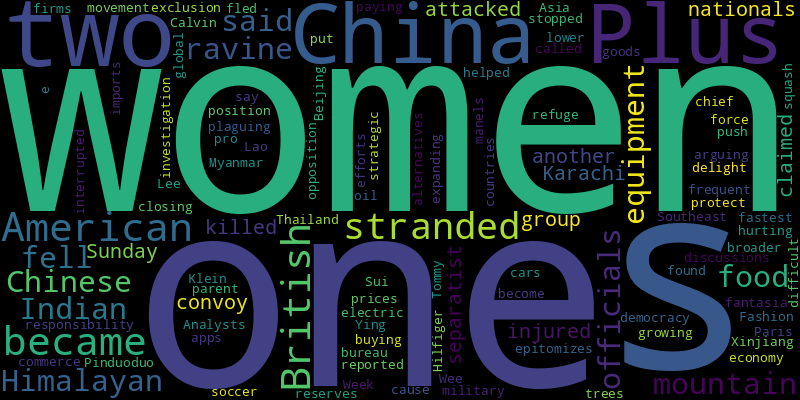
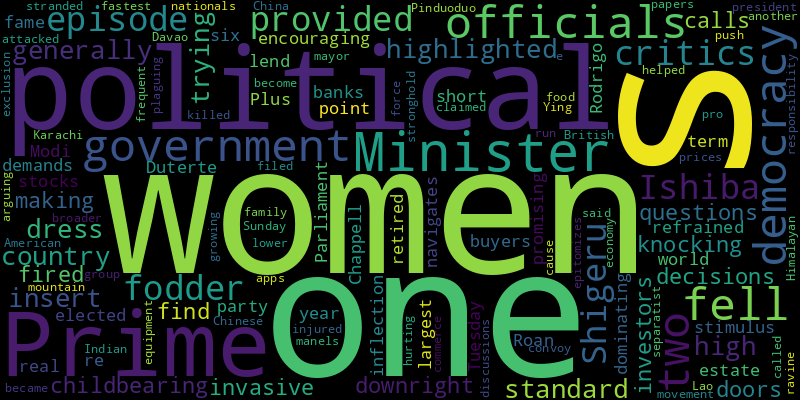
chore(bot): 👿 auto commit

diff --git a/README.md b/README.md
@@ -2,41 +2,41 @@
 Auto RSS New York Times and Generate Word Cloud
 
 ## New York Times Global News
-* Israelis are gathering to remember those killed and abducted last Oct. 7. For Palestinians in Gaza, there is no reprieve from a war that has killed tens of thousands.
-* Explosions were also heard in Tel Aviv as Hamas carried out new rocket attacks from Gaza.
-* The prize was awarded for their discovery of microRNA, which helps determine how cells develop and function.
+* Israel’s air attacks against Hezbollah continued, and it said parts of a fourth military division had begun operating against the militant group in southwestern Lebanon.
+* John J. Hopfield and Geoffrey E. Hinton have “showed a completely new way for us to use computers to aid and to guide us” in solving problems, the committee said.
+* The government is again trying to insert itself into women’s childbearing decisions, knocking on doors and making calls with questions some find downright invasive.
+* The Hamas-led attacks that day shattered Israelis’ faith in the state, and the year of war that followed has deepened society’s divisions. Yet many find hope in the people’s resilience.
+* An explosive deception has ripped apart one of Mexico’s most powerful criminal groups, the Sinaloa cartel, and ignited a war between the rival factions.
 * Ying Lao has called out the pro-democracy movement for its frequent “manels,” arguing that the exclusion of women from such discussions is hurting the cause.
 * Two Chinese nationals were killed and another was injured after a convoy was attacked in Karachi on Sunday. A separatist group claimed responsibility.
-* Dog ownership has surged over the past two years as people seek companionship. In Kyiv, Yorkies, poodles and bichons frisés now rule the streets.
-* As a punishing drought dries up stretches of the Amazon River, Brazil is resorting to dredging to try to keep food, medicine and people flowing along the watery superhighway.
-* The MV Ruby has meandered around Europe’s northwestern coastline under a cloud of suspicion over its thousands of tons of Russian fertilizer.
-* President Kais Saied, who has jailed opponents and consolidated power, is almost certain to win Sunday’s election in the North African country, the birthplace of the Arab Spring movement.
-* A year after their home in Israel was torched and her family was taken by attackers on Oct. 7, a wife and mother clings to the hope that her husband might still come home alive.
+* President Kais Saied’s apparent landslide re-election is the latest sign that authoritarianism has returned to the birthplace of the Arab Spring.
+* Rodrigo Duterte, who retired in 2022 after a six-year term as president, filed papers to run for mayor of Davao, his family’s political stronghold.
+* Stephen James Hubbard, a native of Big Rapids, Mich., whose family says is an English teacher, was sentenced to six years and 10 months in a penal colony.
 
 ![Global](./global.png)
 ## New York Times United States News
-* In North Carolina and other states, a barrage of conspiracy theories and false claims over efforts to bring relief after Hurricane Helene is alarming and disheartening officials and workers.
-* A year of war in Gaza has left college students and faculty feeling shaken and angry, with the world and with each other.
+* The ban will resume while the court considers an appeal to a decision that had briefly allowed greater access to abortions in the state.
 * School closures and traumatic experiences could affect children long after schools reopen. Experts worry that similar scenarios are happening with much more frequency because of climate change.
-* Worshipers gathered on Sunday, many for the first time since the storm decimated their communities, “to cry and pray and process.”
-* A new analysis estimates that the former president’s proposals could grow deficits by as much as $15 trillion over a decade.
-* Jewish voters in Pittsburgh feel squeezed by intolerance on the left and the right, and torn by presidential candidates seeking their support in a vital battleground state.
-* The number of untraceable homemade guns recovered at crime scenes has fallen since the enactment of rules restricting the sale of the weapons, according to law enforcement statistics.
-* The serial entrepreneurs behind Donald J. Trump’s new cryptocurrency project have left a trail of lawsuits, unpaid debt and tax liens.
-* “All of us understand that this is not the 1950s anymore,” Vice President Kamala Harris told the host of the podcast “Call Her Daddy,” which is popular with millennial and Gen Z women.
-* Donald Trump returned to the site where he was shot in the ear. For some of his supporters, it was a religious event as much as a campaign rally.
+* Senator Dianne Feinstein collected fine jewelry, paintings and a trove of political mementos. Because of her trust, many of those items are available for public inspection — and purchase.
+* A year of war in Gaza has left college students and faculty feeling shaken and angry, with the world and with each other.
+* On the second day of the new term, the justices will wrestle with whether the federal government can regulate kits that can be assembled into untraceable homemade guns.
+* A national Times/Siena poll found Kamala Harris with a slim lead over Donald J. Trump. Voters were more likely to see her, not Mr. Trump, as a break from the status quo.
+* Both sides told the Supreme Court that long-suppressed evidence about the state’s star witness undermined the case against the inmate, Richard Glossip.
+* At an event marking the anniversary of Hamas’s Oct. 7 attack on Israel, Donald Trump claimed that antisemitism existed within the Democratic Party but not the Republican Party.
+* Pressed repeatedly, Kamala Harris stayed focused on the points she wanted to make. She also spoke about owning a Glock, and Tim Walz revealed she had told him to be a “little more careful” speaking.
+* “And I’ve had it for quite some time,” Vice President Kamala Harris said on “60 Minutes.”
 
 ![US](./usnews.png)
 ## New York Times Asia News
+* The episode provided political fodder for Prime Minister Shigeru Ishiba’s critics and highlighted the country’s generally high standard of dress.
+* The government is again trying to insert itself into women’s childbearing decisions, knocking on doors and making calls with questions some find downright invasive.
+* The government has fired up investors by encouraging banks to lend more to buyers of stocks and real estate, but officials refrained on Tuesday from promising more stimulus.
+* Prime Minister Modi was re-elected, but his party fell short in dominating Parliament. Was that an inflection point for the world’s largest democracy?
+* Plus, Chappell Roan navigates the demands of fame.
+* Rodrigo Duterte, who retired in 2022 after a six-year term as president, filed papers to run for mayor of Davao, his family’s political stronghold.
 * The two women, one American and one British, became stranded on a Himalayan mountain when their food and equipment fell into a ravine, Indian officials said.
 * Two Chinese nationals were killed and another was injured after a convoy was attacked in Karachi on Sunday. A separatist group claimed responsibility.
 * The push by Pinduoduo to lower prices has helped it become one of China’s fastest-growing e-commerce apps, and epitomizes a broader force plaguing the economy.
 * Ying Lao has called out the pro-democracy movement for its frequent “manels,” arguing that the exclusion of women from such discussions is hurting the cause.
-* Plus, Paris Fashion Week’s closing fantasia.
-* Analysts say the military is expanding its efforts to squash opposition.
-* Sui-Lee Wee, the Southeast Asia bureau chief, reported on women who had fled Myanmar and found refuge — and the delight of soccer — in Thailand.
-* China has strategic reserves and alternatives like electric cars, should oil imports ever be interrupted.
-* Beijing’s investigation of the parent of Calvin Klein and Tommy Hilfiger, which stopped buying goods from Xinjiang, has put global firms in a difficult position.
-* Plus, paying countries to protect trees.
 
 ![Asian](./asian.png)

diff --git a/archive/2024-10-07.md b/archive/2024-10-07.md
@@ -1,0 +1,42 @@
+# NewsArchive
+Auto RSS New York Times and Generate Word Cloud
+
+## New York Times Global News
+* Israelis are gathering to remember those killed and abducted last Oct. 7. For Palestinians in Gaza, there is no reprieve from a war that has killed tens of thousands.
+* Explosions were also heard in Tel Aviv as Hamas carried out new rocket attacks from Gaza.
+* The prize was awarded for their discovery of microRNA, which helps determine how cells develop and function.
+* Ying Lao has called out the pro-democracy movement for its frequent “manels,” arguing that the exclusion of women from such discussions is hurting the cause.
+* Two Chinese nationals were killed and another was injured after a convoy was attacked in Karachi on Sunday. A separatist group claimed responsibility.
+* Dog ownership has surged over the past two years as people seek companionship. In Kyiv, Yorkies, poodles and bichons frisés now rule the streets.
+* As a punishing drought dries up stretches of the Amazon River, Brazil is resorting to dredging to try to keep food, medicine and people flowing along the watery superhighway.
+* The MV Ruby has meandered around Europe’s northwestern coastline under a cloud of suspicion over its thousands of tons of Russian fertilizer.
+* President Kais Saied, who has jailed opponents and consolidated power, is almost certain to win Sunday’s election in the North African country, the birthplace of the Arab Spring movement.
+* A year after their home in Israel was torched and her family was taken by attackers on Oct. 7, a wife and mother clings to the hope that her husband might still come home alive.
+
+![Global](./global.png)
+## New York Times United States News
+* In North Carolina and other states, a barrage of conspiracy theories and false claims over efforts to bring relief after Hurricane Helene is alarming and disheartening officials and workers.
+* A year of war in Gaza has left college students and faculty feeling shaken and angry, with the world and with each other.
+* School closures and traumatic experiences could affect children long after schools reopen. Experts worry that similar scenarios are happening with much more frequency because of climate change.
+* Worshipers gathered on Sunday, many for the first time since the storm decimated their communities, “to cry and pray and process.”
+* A new analysis estimates that the former president’s proposals could grow deficits by as much as $15 trillion over a decade.
+* Jewish voters in Pittsburgh feel squeezed by intolerance on the left and the right, and torn by presidential candidates seeking their support in a vital battleground state.
+* The number of untraceable homemade guns recovered at crime scenes has fallen since the enactment of rules restricting the sale of the weapons, according to law enforcement statistics.
+* The serial entrepreneurs behind Donald J. Trump’s new cryptocurrency project have left a trail of lawsuits, unpaid debt and tax liens.
+* “All of us understand that this is not the 1950s anymore,” Vice President Kamala Harris told the host of the podcast “Call Her Daddy,” which is popular with millennial and Gen Z women.
+* Donald Trump returned to the site where he was shot in the ear. For some of his supporters, it was a religious event as much as a campaign rally.
+
+![US](./usnews.png)
+## New York Times Asia News
+* The two women, one American and one British, became stranded on a Himalayan mountain when their food and equipment fell into a ravine, Indian officials said.
+* Two Chinese nationals were killed and another was injured after a convoy was attacked in Karachi on Sunday. A separatist group claimed responsibility.
+* The push by Pinduoduo to lower prices has helped it become one of China’s fastest-growing e-commerce apps, and epitomizes a broader force plaguing the economy.
+* Ying Lao has called out the pro-democracy movement for its frequent “manels,” arguing that the exclusion of women from such discussions is hurting the cause.
+* Plus, Paris Fashion Week’s closing fantasia.
+* Analysts say the military is expanding its efforts to squash opposition.
+* Sui-Lee Wee, the Southeast Asia bureau chief, reported on women who had fled Myanmar and found refuge — and the delight of soccer — in Thailand.
+* China has strategic reserves and alternatives like electric cars, should oil imports ever be interrupted.
+* Beijing’s investigation of the parent of Calvin Klein and Tommy Hilfiger, which stopped buying goods from Xinjiang, has put global firms in a difficult position.
+* Plus, paying countries to protect trees.
+
+![Asian](./asian.png)
